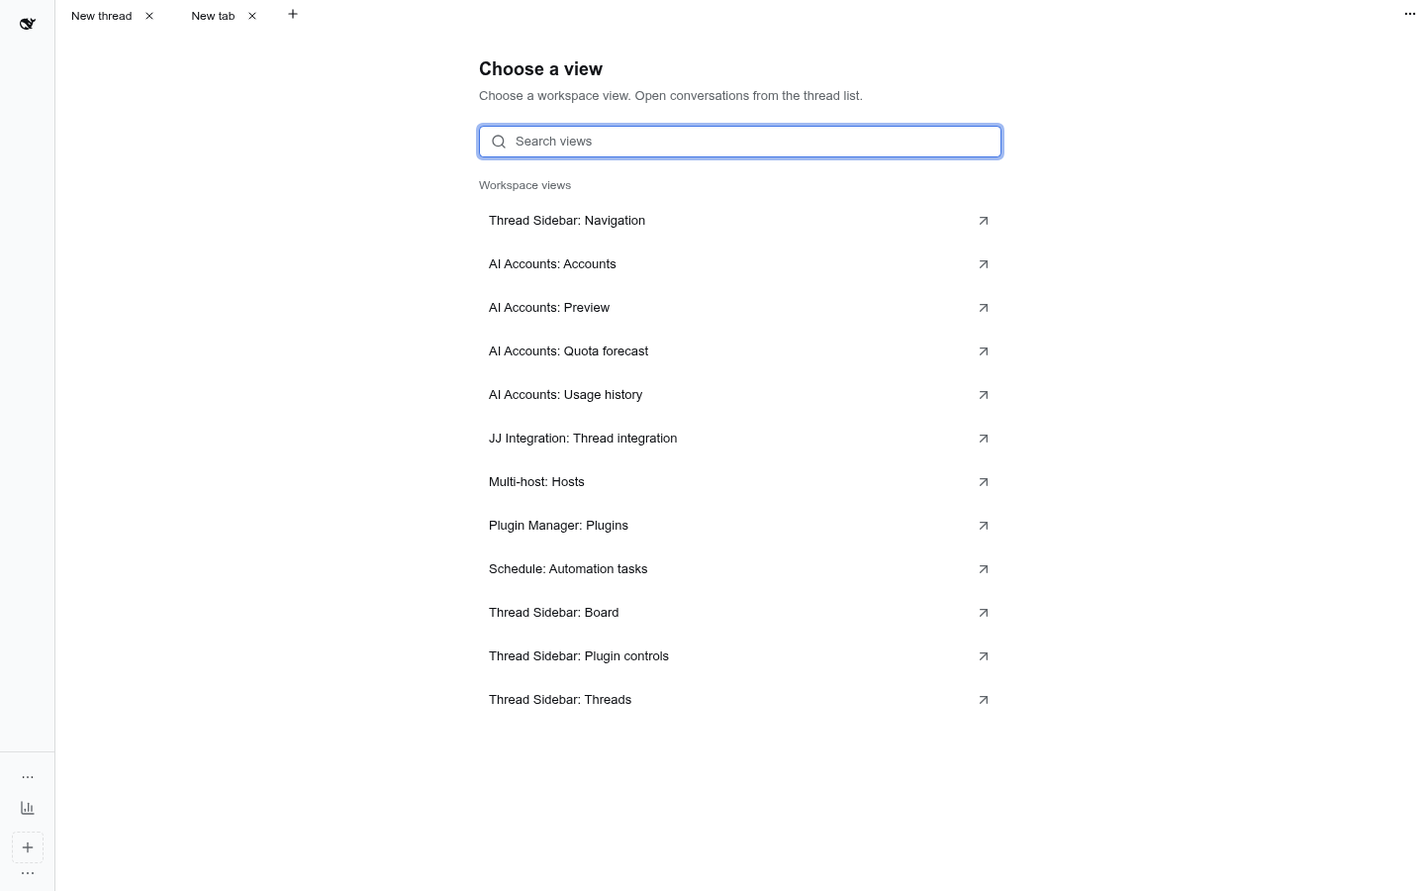
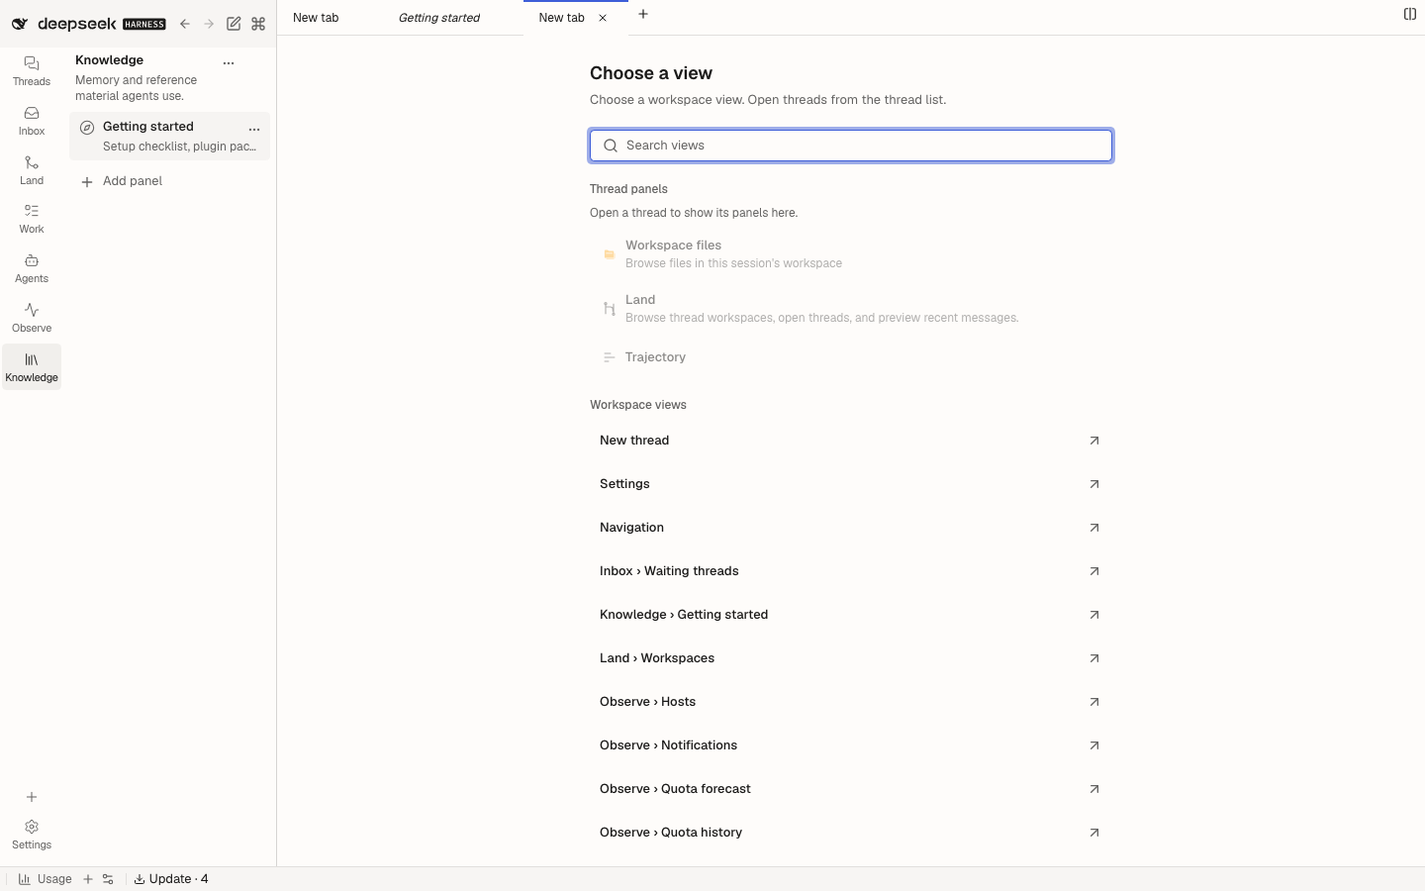
fix(workbench): name New tab chooser views without their plugin
The chooser still showed "Settings Shell: Settings", "Plugin Manager: Plugins" and
"Terminal: Terminal" although the redesign rule is that a title names the page, never
its plugin (calm-onboarding C4). Rows now drop a "Plugin: " prefix; two views that
would share the short name keep their qualified names, so a row is never ambiguous.
Search still matches the full names.

diff --git a/plugins/@dshfiles/workbench/src/new-view-chooser.tsx b/plugins/@dshfiles/workbench/src/new-view-chooser.tsx
@@ -4,7 +4,7 @@ import { SearchInput } from '@dshfiles/plugin-ui/components/ui/search-input'
 import { ArrowUpRightIcon } from '@dshfiles/plugin-ui/icons'
 import { useEffect, useRef, useState, useSyncExternalStore } from 'react'
 import { NewThreadSource } from './new-thread-source.js'
-import type { ThreadFacet, ThreadFacetObservable, WorkbenchPanelDefinition } from './registry.js'
+import { withoutPluginPrefix, type ThreadFacet, type ThreadFacetObservable, type WorkbenchPanelDefinition } from './registry.js'
 
 const noThread: ThreadFacetObservable<string | undefined> = { subscribe: () => () => undefined, getSnapshot: () => undefined }
 
@@ -47,16 +47,22 @@ export const NewViewChooser = (props: {
   const facets = facetDefinitions
     .filter(({ facet }) => [facet.title(), facet.description?.() ?? ''].some(text => text.toLocaleLowerCase().includes(query)))
     .toSorted((left, right) => left.facet.order - right.facet.order)
-  const views = available
-    .filter(definition => definition.threadFacet === undefined)
-    .filter(matches)
-    .sort((left, right) => {
-      const priority = (definition: WorkbenchPanelDefinition): number => {
-        const index = [NewThreadSource.id, 'dshfiles-settings', 'dshfiles-thread-sidebar.workbench-navigation'].indexOf(definition.id)
-        return index === -1 ? 3 : index
-      }
-      return priority(left) - priority(right) || (left.discoveryTitle ?? left.title).localeCompare(right.discoveryTitle ?? right.title)
-    })
+  const viewDefinitions = available.filter(definition => definition.threadFacet === undefined)
+  // Rows name the page, never its plugin ("Settings Shell: Settings" reads "Settings"); a short name two views share keeps
+  // its qualified name. Search still matches the full names.
+  const shortName = (definition: WorkbenchPanelDefinition): string => withoutPluginPrefix(definition.discoveryTitle ?? definition.title)
+  const shortNames = viewDefinitions.map(shortName)
+  const label = (definition: WorkbenchPanelDefinition): string => {
+    const short = shortName(definition)
+    return shortNames.indexOf(short) === shortNames.lastIndexOf(short) ? short : (definition.discoveryTitle ?? definition.title)
+  }
+  const views = viewDefinitions.filter(matches).sort((left, right) => {
+    const priority = (definition: WorkbenchPanelDefinition): number => {
+      const index = [NewThreadSource.id, 'dshfiles-settings', 'dshfiles-thread-sidebar.workbench-navigation'].indexOf(definition.id)
+      return index === -1 ? 3 : index
+    }
+    return priority(left) - priority(right) || label(left).localeCompare(label(right))
+  })
   const actions = menuRows
     .filter(row => row.menu === NEW_VIEW_MENU && [row.title, ...(row.keywords ?? [])].some(text => text.toLocaleLowerCase().includes(query)))
     .toSorted((left, right) => (left.order ?? 100) - (right.order ?? 100) || left.title.localeCompare(right.title))
@@ -115,7 +121,7 @@ export const NewViewChooser = (props: {
                 className="dshx:h-auto dshx:min-h-10 dshx:w-full dshx:justify-start dshx:gap-2 dshx:py-2"
                 onClick={() => props.onSelect(definition)}
               >
-                <span className="dshx:min-w-0 dshx:flex-1 dshx:truncate dshx:text-left">{definition.discoveryTitle ?? definition.title}</span>
+                <span className="dshx:min-w-0 dshx:flex-1 dshx:truncate dshx:text-left">{label(definition)}</span>
                 <ArrowUpRightIcon aria-hidden className="dshx:size-4 dshx:shrink-0 dshx:text-muted-foreground" />
               </Button>
             ))}

diff --git a/tooling/dshx/e2e/support/plugin-journeys/workbench.steps.ts b/tooling/dshx/e2e/support/plugin-journeys/workbench.steps.ts
@@ -2339,36 +2339,25 @@ const legacyViewLayoutSchema = withUnknownProperties(legacyViewLayoutFields)
 const PREVIEW_SOURCE_ID = 'dshfiles-thread-sidebar.workbench-status'
 const SCRATCHPAD_SOURCE_ID = 'dshfiles-workbench.scratchpad'
 
-Then('the view chooser exposes qualified plugin names and AI Accounts search selects its Preview', async ({ page }: { page: Page }) => {
+Then('the view chooser names views without their plugin and AI Accounts search selects its Preview', async ({ page }: { page: Page }) => {
   await recordAssertion(page, 'workbench-plugin-view-names-qualified-chooser-and-search', async () => {
     const chooser = await clickNewTab(mainPane(page))
     const cards = chooser.getByRole('button')
     const names = await cards.evaluateAll(elements => elements.map(element => element.getAttribute('aria-label') ?? element.textContent?.trim() ?? ''))
     expect(names).toContain('New thread')
-    const reusableNames = names.filter(name => name !== 'New thread')
-    expect(reusableNames.length).toBeGreaterThan(0)
-    expect(reusableNames.every(name => /^[^:]+: \S/u.test(name))).toBe(true)
-    await expect(chooser.getByRole('button', { name: 'Rich Composer: Current conversation', exact: true })).toHaveCount(0)
-    for (const name of [
-      'Threads',
-      'Navigation',
-      'Quota',
-      'Sidebar controls',
-      'AI Accounts: Accounts',
-      'Files',
-      'Workbench: Scratchpad',
-      'Plugin Manager: Plugins',
-      'Schedule: Automation tasks',
-    ])
+    // Rows name the page, never its plugin (DESIGN.md); two views sharing a short name would keep their qualified names.
+    expect(names.filter(name => /^(?:AI Accounts|Workbench|Plugin Manager|Schedule|Settings Shell|Rich Composer): /u.test(name))).toEqual([])
+    await expect(chooser.getByRole('button', { name: 'Current conversation', exact: true })).toHaveCount(0)
+    for (const name of ['Threads', 'Navigation', 'Quota', 'Sidebar controls', 'Accounts', 'Files', 'Scratchpad', 'Plugins', 'Automation tasks'])
       await expect(chooser.getByRole('button', { name, exact: true })).toBeVisible()
     // Native/unlabeled footer actions are present in this composition: never falsely attribute their aggregate to AI Accounts.
-    await expect(chooser.getByRole('button', { name: 'AI Accounts: Controls', exact: true })).toHaveCount(0)
+    await expect(chooser.getByRole('button', { name: 'Controls', exact: true })).toHaveCount(0)
     await page.screenshot({ path: test.info().outputPath('plugin-view-names-qualified-chooser.png'), animations: 'disabled' })
+    // Search still matches the full, plugin-qualified names.
     await chooser.getByRole('textbox', { name: 'Search views', exact: true }).fill('AI Accounts')
     const matchingNames = await cards.evaluateAll(elements => elements.map(element => element.getAttribute('aria-label') ?? element.textContent?.trim() ?? ''))
-    expect(matchingNames).toEqual(expect.arrayContaining(['Quota', 'AI Accounts: Accounts', 'AI Accounts: Usage history', 'AI Accounts: Quota forecast']))
+    expect(matchingNames).toEqual(expect.arrayContaining(['Quota', 'Accounts', 'Usage history', 'Quota forecast']))
     await expect(chooser.getByRole('button', { name: 'Sidebar controls', exact: true })).toHaveCount(0)
-    expect(matchingNames.every(name => name.startsWith('AI Accounts: '))).toBe(true)
     await chooser.getByRole('button', { name: 'Quota', exact: true }).click()
     await expect(chooser).toBeHidden()
     const tab = mainPane(page).getByRole('tab', { name: 'Quota', exact: true })

diff --git a/plugins/@dshfiles/workbench/src/new-view-chooser.test.tsx b/plugins/@dshfiles/workbench/src/new-view-chooser.test.tsx
@@ -16,18 +16,27 @@ const source = (id: string, title: string, extra: Partial<WorkbenchPanelDefiniti
 })
 
 describe('NewViewChooser', () => {
-  it('shows and searches producer-qualified names with stable special-view ordering', () => {
+  it('names each view without its plugin, searches the full names, and keeps special-view ordering', () => {
     const definitions = [
       source('backlog', 'Backlog: Items'),
       source('dshfiles-thread-sidebar.workbench-navigation', 'Navigation'),
       source('dshfiles-settings', 'Settings Shell: Settings'),
+      source('plugins', 'Plugin Manager: Plugins'),
       source('current-conversation', 'Rich Composer: Current conversation', { allowMultiple: true }),
     ]
     render(<NewViewChooser definitions={definitions} onSelect={() => undefined} />)
-    expect(screen.getAllByRole('button').map(button => button.textContent)).toEqual(['Settings Shell: Settings', 'Navigation', 'Backlog: Items'])
+    expect(screen.getAllByRole('button').map(button => button.textContent)).toEqual(['Settings', 'Navigation', 'Items', 'Plugins'])
+    fireEvent.change(screen.getByRole('textbox', { name: 'Search views' }), { target: { value: 'settings shell' } })
+    expect(screen.getAllByRole('button').map(button => button.textContent)).toEqual(['Settings'])
     fireEvent.change(screen.getByRole('textbox', { name: 'Search views' }), { target: { value: 'Rich Composer' } })
     expect(screen.queryByRole('button')).toBeNull()
     expect(screen.getByText('No matching views.')).toBeDefined()
+  })
+
+  it('keeps the qualified name when two views would share a short name', () => {
+    const definitions = [source('backlog', 'Backlog: Items'), source('queue', 'Queue: Items'), source('jj', 'Jujutsu')]
+    render(<NewViewChooser definitions={definitions} onSelect={() => undefined} />)
+    expect(screen.getAllByRole('button').map(button => button.textContent)).toEqual(['Backlog: Items', 'Jujutsu', 'Queue: Items'])
   })
 
   it('shows and searches the qualified discovery name without changing the tab title', () => {
@@ -76,7 +85,7 @@ describe('NewViewChooser', () => {
     const definitions = [source('backlog', 'Backlog: Items'), source('dshfiles-settings', 'Settings Shell: Settings'), newThread]
     const select = vi.fn()
     render(<NewViewChooser definitions={definitions} onSelect={select} />)
-    expect(screen.getAllByRole('button').map(button => button.textContent)).toEqual(['New thread', 'Settings Shell: Settings', 'Backlog: Items'])
+    expect(screen.getAllByRole('button').map(button => button.textContent)).toEqual(['New thread', 'Settings', 'Items'])
     const input = screen.getByRole('textbox', { name: 'Search views' })
     for (const query of ['new', 'Thread']) {
       fireEvent.change(input, { target: { value: query } })

diff --git a/plugins/@dshfiles/workbench/src/workbench-view.test.tsx b/plugins/@dshfiles/workbench/src/workbench-view.test.tsx
@@ -526,7 +526,7 @@ describe('WorkbenchView', () => {
         onOpenPanel={open}
       />,
     )
-    fireEvent.click(screen.getByText('Terminal: Terminal', { selector: 'button span' }))
+    fireEvent.click(screen.getByText('Terminal', { selector: 'button span' }))
     expect(open.mock.calls[0]?.[0]).toBe(terminal.definition)
     fireEvent.click(screen.getByText('New thread', { selector: 'button span' }))
     expect(open.mock.calls[1]?.[0]).toBe(thread.definition)
@@ -880,7 +880,7 @@ describe('WorkbenchView', () => {
     const original = right.activePanel
     if (original === undefined) throw new Error('Missing original panel')
     fireEvent.change(draftOf(original.id), { target: { value: 'preserved' } })
-    fireEvent.click(within(mainChooser).getByText('Backlog: Items', { selector: 'button span' }))
+    fireEvent.click(within(mainChooser).getByText('Items', { selector: 'button span' }))
     expect(right.getPanel(original.id)).toBe(original)
     expect(draftOf(original.id).value).toBe('preserved')
     expect(main.activePanel?.id).not.toBe(original.id)

diff --git a/tooling/dshx/e2e/support/plugin-journeys/workbench-terminal.steps.ts b/tooling/dshx/e2e/support/plugin-journeys/workbench-terminal.steps.ts
@@ -130,7 +130,7 @@ When('the {string} pane opens a genuine terminal from its view picker', async ({
   await (region === 'left' ? leftThreads.getByRole('button', { name: 'New tab', exact: true }) : plus.first()).click()
   const chooser = target.getByRole('region', { name: 'Choose a view', exact: true }).filter({ visible: true })
   await expect(chooser).toHaveCount(1)
-  await chooser.getByRole('button', { name: 'Terminal: Terminal', exact: true }).click()
+  await chooser.getByRole('button', { name: 'Terminal', exact: true }).click()
   await expect(chooser).toBeHidden()
   const body = visibleTerminals(target)
   await expect(body).toHaveCount(1)

diff --git a/plugins/@dshfiles/workbench/README.md b/plugins/@dshfiles/workbench/README.md
@@ -42,7 +42,7 @@ contributes an editor panel, and [`@dshfiles/jujutsu`](../jujutsu/README.md) a r
 
 ## Use
 
-- **View names**: reusable views carry sentence-case names without the plugin name (DESIGN.md), for example **Quota**, **Files**, **Threads** and **Navigation**; views still registered as **Plugin: View** (**Backlog: Items**, **Settings Shell: Settings**) keep that name until their owner renames them. The chooser searches full names. Saved layout IDs and view state stay unchanged; restored captions update in place. Conversation names, scoped subjects and file/resource instance titles are not renamed.
+- **View names**: reusable views carry sentence-case names without the plugin name (DESIGN.md), for example **Quota**, **Files**, **Threads** and **Navigation**. The chooser shows a view still registered as **Plugin: View** without its prefix (**Settings Shell: Settings** reads **Settings**, **Backlog: Items** reads **Items**) unless two views would share the short name, which then keep their qualified names. The chooser searches full names. Saved layout IDs and view state stay unchanged; restored captions update in place. Conversation names, scoped subjects and file/resource instance titles are not renamed.
 - **One sidebar layout (b:952m)**: the left region is always mounted behind the thread sidebar's rail. Its default is one **Sidebar** pane (the rail and its list, tab row hidden), which moves, splits and floats like any pane and refuses an ordinary close; **Reset layout** restores it. The sidebar files a one-time merge request (`@dshfiles/workbench/shell-merge`): a formerly Fixed browser's dormant left layout is saved as the named layout **Free docking (before merge)** and the region starts from the default; a formerly Free docking left layout is kept, and the first migrating page turns `showMainTabs` on. **Keep in sidebar** requests (same module) dock a view as a stacked pane under the Sidebar pane, and the pane tab menu offers **Add to sidebar ▸ ‹folder›** while the sidebar provides its folders.
 - **One view system**: plugins export reusable components through `@dshfiles/workbench/registry`. Views open in left, centre, right or bottom panes and their Dockview split groups. The owned Threads list and Navigation use this same contract. The sidebar keeps only its brand/history/palette row and native account/footer chrome fixed. Sidebar customization belongs to the Threads panel's settings gear and follows that view.
 - **Stable window scene**: switching between already-open conversations from different projects changes only the selected conversation, not the tab set or layout. Unrelated New tab choosers, order, pins and drafts remain. Reload uses the current region layouts instead of an older scope cache; a chooser you explicitly close stays closed.
@@ -52,9 +52,9 @@ contributes an editor panel, and [`@dshfiles/jujutsu`](../jujutsu/README.md) a r
 - **Main tab rows (productivity pass Q5; opt-in since b:4v6p)**: the main region's tabs show by default (`showMainTabs`, Settings › Workbench, or ⌘K **Layout: hide tabs** / **Layout: show tabs**); with them off, the main region's tab rows are hidden (threads switch from the list, ⌘K and the keys; New tab, Reopen closed tab and Close other tabs are ⌘K rows) and the thread header takes the row inline. A thread facet picked from the centre chooser then opens in the thread panel instead. Since the one sidebar layout (b:952m) the setting alone decides (`data-shell-layout` is retired); Pane options uses a split glyph, so the header row has one `⋯`.
 - **Original chat header**: each conversation retains its own title/mode, workspace utilities and Pin/More menu; Trajectory, Traces and Requests are thread-panel facets opened from that menu (Rich Composer's thread views). Child views use the same session and resident editor; hiding the outer Workbench row does not hide or cover this header. The original right-sidebar opener controls the actual dock. [Ownership and verification](docs/conversation-header.md).
 - **Long chats**: history scrolls inside its pane while the original input remains reachable. Fixed conversations have a viewport-sized flex host through tab switches and reload. Closing an inactive tab leaves the selected chat alone; closing an active tab chooses an existing neighbor without retargeting another tab.
-- **Terminals**: choose **New tab → Terminal: Terminal** in any pane. Each explicit launch creates an independent native terminal for the selected conversation's workspace, without forcing open the right pane. Moving, hiding and reloading retain the real PTY; closing its tab uses native cleanup. Select a conversation/workspace first if no context is available. The launcher never creates hidden conversations or allocates from a passive layout restore.
+- **Terminals**: choose **New tab → Terminal** in any pane. Each explicit launch creates an independent native terminal for the selected conversation's workspace, without forcing open the right pane. Moving, hiding and reloading retain the real PTY; closing its tab uses native cleanup. Select a conversation/workspace first if no context is available. The launcher never creates hidden conversations or allocates from a passive layout restore.
 - **Thread panels**: every **Choose a view** lists the thread facets first: each native right-pane page type that offers a guide entry (**Changes**, **Cost**, **Jobs**, **Workspace files**, …), with its guide title, description, icon and order. Picking one opens that page for the thread on screen in the chooser's own pane; the body renders through the native `sidebar.right.pane.tab` seat with that thread's `sessionId`. An open facet follows the thread on screen: switching threads puts the new thread's page in the same place, and while no thread is on screen (a new-thread draft, a destination page) it keeps its place. With no thread on screen the rows are disabled. Terminal keeps its own launcher, since a terminal belongs to the thread that started it. [Thread panels in the right pane](docs/screenshots/thread-facets.png).
-- **New tab**: each group's **+**, accessible as **New tab**, sits immediately after its last tab and opens an actual **New tab** chooser tab, not a dropdown. Empty right/bottom panes start with the same chooser. Its **Choose a view** region contains **Search views**, one **Settings Shell: Settings** hub and reusable plugin views. Conversations open from the thread list or **New thread**; there is no separate **Rich Composer** or **Current conversation** picker entry. Legacy global-following conversation aliases retire without changing canonical fixed-session tabs. Choosing a plugin view opens a new occurrence by default; contributors can opt a singleton out with `allowMultiple: false`. Per-chat Trajectories, resource occurrences and Settings leaf sections are not primary suggestions; saved occurrences still restore. [Workspace-only chooser](docs/screenshots/main-panel-sources.png).
+- **New tab**: each group's **+**, accessible as **New tab**, sits immediately after its last tab and opens an actual **New tab** chooser tab, not a dropdown. Empty right/bottom panes start with the same chooser. Its **Choose a view** region contains **Search views**, one **Settings** hub and reusable plugin views. Conversations open from the thread list or **New thread**; there is no separate **Rich Composer** or **Current conversation** picker entry. Legacy global-following conversation aliases retire without changing canonical fixed-session tabs. Choosing a plugin view opens a new occurrence by default; contributors can opt a singleton out with `allowMultiple: false`. Per-chat Trajectories, resource occurrences and Settings leaf sections are not primary suggestions; saved occurrences still restore. [Workspace-only chooser](docs/screenshots/main-panel-sources.png).
 - **Pane options**: the far-right menu in each group offers **Split right**, **Split down**, **Layouts**, **Move tab to**, **Reset layout** and the bottom-pane toggle. Splits create actual Dockview groups, not nested containers. Layouts opens the saved-layout dialog; Move tab to acts on the active tab. There is no duplicate Add panel menu or pane-preference checkbox/up/down control strip.
 - **Hide one tab row**: right-click its sole tab or blank row space and choose **Hide tab row**. Only the row disappears; the same content, input and draft stay docked and mounted. Hover the content to find **Show tab row** at its top-right, focus that button by keyboard, or use the global **Show tab rows** command. Dropping/adding another tab into the group immediately shows the row and clears the hidden preference. Going back to one does not hide it again automatically. Multiple-tab groups cannot be hidden. The native header flag saves in the existing layout.
 - **Account Preview is a view**: the existing AI Accounts-only preview starts as a regular bottom-left tab group, not a special fixed strip. It uses the genuine contributor and supports the same move, hide-row, split and close controls. Existing saved placements win, including nested panes; closing it stays closed across reload, and the chooser can reopen it. **Reset layout** restores the default. Native sidebar account/settings controls, brand and update notices remain fixed. A standalone Sidebar without the Workbench override retains its old Preview fallback.

diff --git a/plugins/@dshfiles/main-tabs/README.md b/plugins/@dshfiles/main-tabs/README.md
@@ -25,8 +25,8 @@ This is an owned DSH bundle built with dshx (no port: nothing upstream does this
 
 The shared Workbench snapshot also publishes the authoritative native current Session ID independently of the selected tool tab. Reset layout uses that existing conversation/editor owner rather than cloning another input for the same Session. This is derived from `uiSession.adapter.current`, not a second selection store or an inference from retained views.
 
-- **New tab (Workbench)**: each group's **+**, accessible as **New tab**, opens an actual **New tab** chooser tab. Semantic _Start_ tabs opened by Mod+T (Web: Mod+Alt+T) show that same chooser: **Choose a view**, **Search views**, one **Settings Shell: Settings** hub and plugin views. There is no separate Rich Composer/current-conversation entry: the thread list opens complete fixed-session chat-and-editor tabs. There is no duplicate Add panel dropdown or persistent Workbench toolbar.
-- **New tab (standalone fallback)**: native core **Plugins**, **Automation tasks** and **Settings** keep their original names outside Workbench. Workbench presents those reusable templates as **Plugin Manager: Plugins**, **Schedule: Automation tasks** and **Settings Shell: Settings**. Otherwise unchanged. "+" after the last tab, or the same shortcut, opens a _Start_ tab with focused command-palette search. Typing filters New thread, five recent threads (running first), main panels and Settings; Arrow keys and Enter pick a result. A thread or panel replaces Start (or focuses its existing tab); New thread and Settings close it. Start is not saved.
+- **New tab (Workbench)**: each group's **+**, accessible as **New tab**, opens an actual **New tab** chooser tab. Semantic _Start_ tabs opened by Mod+T (Web: Mod+Alt+T) show that same chooser: **Choose a view**, **Search views**, one **Settings** hub and plugin views, each named without its plugin. There is no separate Rich Composer/current-conversation entry: the thread list opens complete fixed-session chat-and-editor tabs. There is no duplicate Add panel dropdown or persistent Workbench toolbar.
+- **New tab (standalone fallback)**: native core **Plugins**, **Automation tasks** and **Settings** keep their original names outside Workbench. Workbench registers those reusable templates as **Plugin Manager: Plugins**, **Schedule: Automation tasks** and **Settings Shell: Settings**, and its chooser shows them as **Plugins**, **Automation tasks** and **Settings**. Otherwise unchanged. "+" after the last tab, or the same shortcut, opens a _Start_ tab with focused command-palette search. Typing filters New thread, five recent threads (running first), main panels and Settings; Arrow keys and Enter pick a result. A thread or panel replaces Start (or focuses its existing tab); New thread and Settings close it. Start is not saved.
 - **Window scope (Workbench)**: selecting a conversation changes the subject, not the scene. Tabs from different projects keep the same window's tab identities, order, pins, drafts and unrelated New tab choosers. The current saved set key is an opaque scene anchor; no dormant project/global sets are merged and no user preference is rewritten. Host project metadata and navigation acknowledgements still follow the selected Session exactly. Native fallback keeps project-follow behavior. Explicit persistence changes and named-layout commands remain scene-changing actions.
 - **Preview tabs (VS Code style)**: conversations and panels follow `openMode`, in Workbench and the standalone strip. By default a plain sidebar click opens a _preview_ tab (italic title) that the next open replaces; typing in it, double-clicking the tab or the sidebar row, pinning or dragging it keeps it. Selecting an already open conversation focuses its tab, and explicit sidebar open intent also reopens the same native-current conversation after all tabs were closed. `openMode: new` gives every opened conversation its own tab.
 - **Tab chrome (Workbench)**: the selected tab has an accent top edge (muted outside the focused group); its close button stays visible, other tabs show theirs on hover or keyboard focus. Pinned tabs have no close button.
